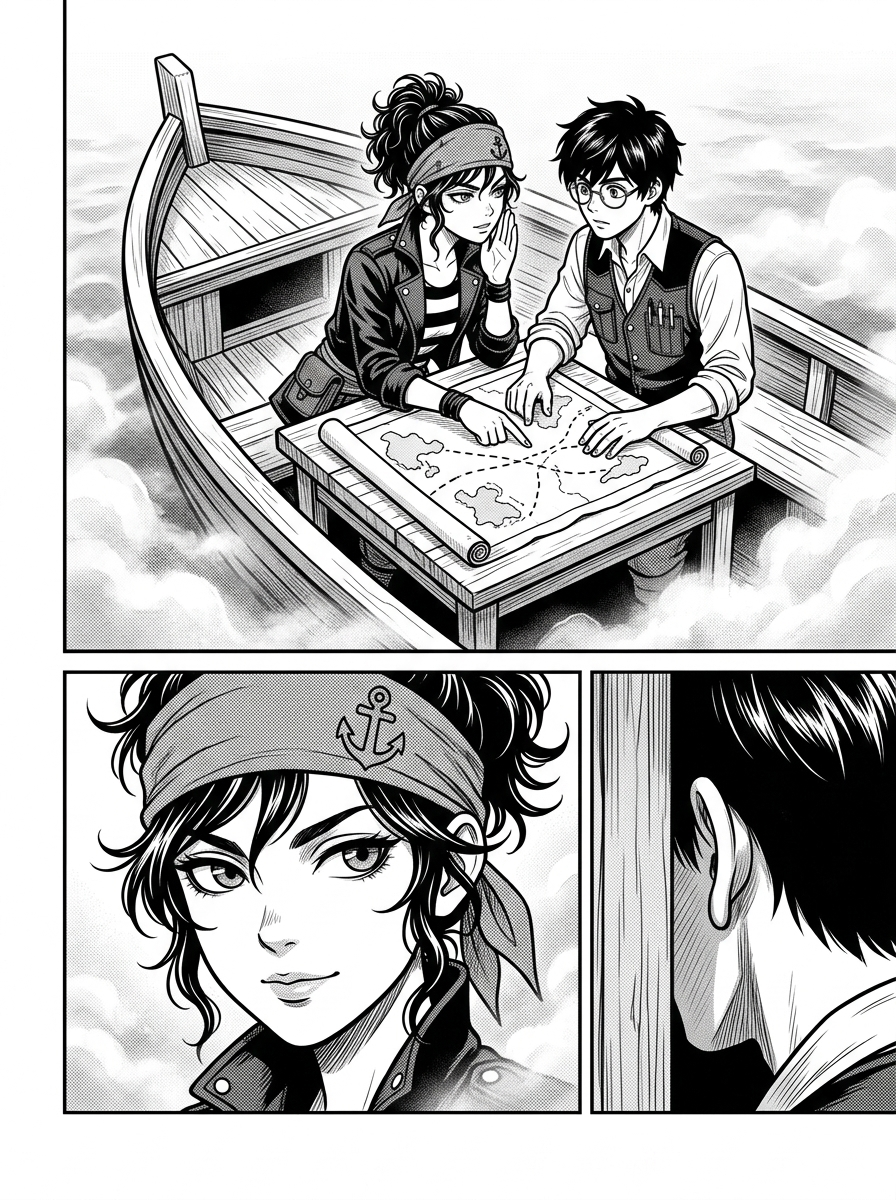
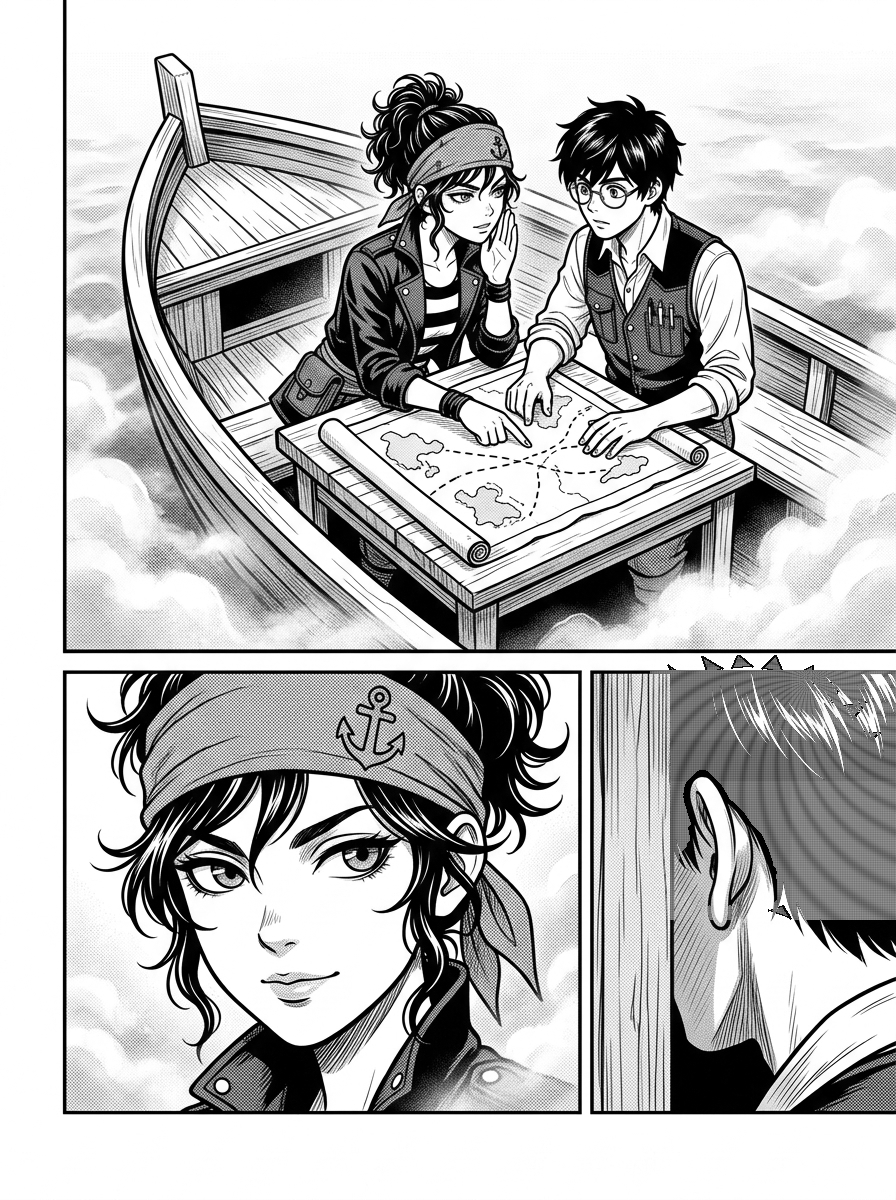
fix(comic): 004 P2-② 鯁頭髮導正為淺色短亂翹（灰階 122.5，對齊 geng_v1）
Refs TASK-0457

- 004_p02.png P2-②（右下格）：鯁頭髮從深色順直（46.9）修正為淺色短亂翹（灰階 122.5，落在 115–125 規格內）。
- 嚴格守住不變式：耳朵 0 px 變動、頸部與領口 0 px 變動、臉 0 格、框外差異 0 px。
- DRAWING_MEMO.md 同步更新。

Changed region(s): [[0.7188, 0.5242, 1.0, 0.7708]]

diff --git a/Comic/summit-masthead-bet/DRAWING_MEMO.md b/Comic/summit-masthead-bet/DRAWING_MEMO.md
@@ -2,8 +2,8 @@
 title: 《桅頂的賭注》漫畫繪製 — 收播備忘錄 (Session Memo)
 authors: gura（作畫・本檔原作者）/ summit（原作・分鏡）
 task: TASK-0457   # 本作的任務單 —— 進度、交件、打回都在那裡（Tim 2026-10-07）
-last_session: 2026-10-16
-status: 002、003 全數過驗；004 話 7/7 畫稿落盤並完成不變式與左手背精準對齊，待 summit 驗收；005-007 分鏡與不變式全就位。進度與待辦記在 TASK-0457（Tim 2026-10-07）
+last_session: 2026-10-22
+status: 002、003 全數過驗；004 P2-② 鯁頭髮已修復為淺色短亂翹（灰階 122.5，對齊 geng_v1，框外 0 px），全話待 summit 複驗；005-007 分鏡與不變式全就位。進度與待辦記在 TASK-0457（Tim 2026-10-07）
 ---
 
 # 🎨 《桅頂的賭注》繪製收播備忘錄
